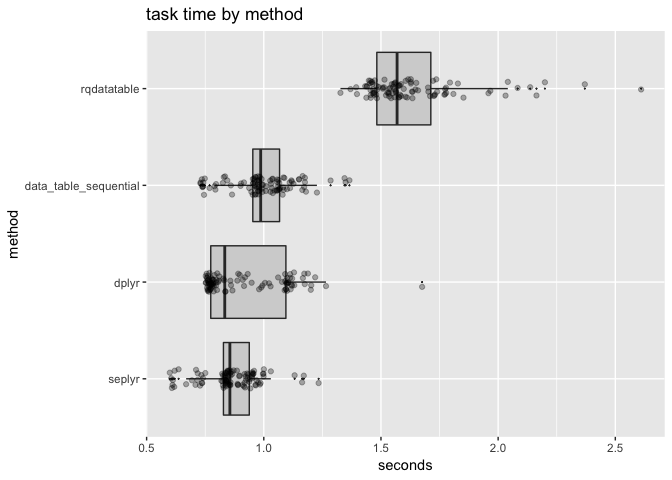
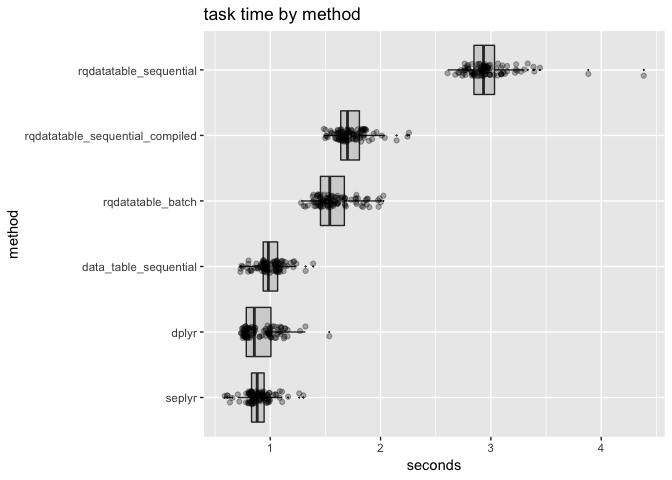
more variations to find out where time is going

diff --git a/extras/CollectExprs_memory.md b/extras/CollectExprs_memory.md
@@ -55,7 +55,7 @@ ncol <- 100
 [`rqdatatable`](https://CRAN.R-project.org/package=rqdatatable)/[`rquery`](https://CRAN.R-project.org/package=rquery) torture function: add 100 columns to a 1000000 row table. This is implemented using [`data.table`](https://CRAN.R-project.org/package=data.table) in a batch mode.
 
 ``` r
-rquery_fn <- function(d, ncol) {
+rquery_fn_batch <- function(d, ncol) {
   expressions <- paste0("x + ", seq_len(ncol))
   names(expressions) <- paste0("x_", seq_len(ncol))
   ops <- local_td(d) %.>%
@@ -64,13 +64,49 @@ rquery_fn <- function(d, ncol) {
   d %.>% ops
 }
 
-rquery_fn(d, 5)
+rquery_fn_batch(d, 5)[]
 ```
 
     ##    x x_1 x_2 x_3 x_4 x_5
     ## 1: 3   4   5   6   7   8
 
 The row-selection step is to cut down on the in-memory cost of bringing the result back to `R`. Obviously we could optimize the example away by pivoting the filter to earlier in the example pipeline. We ask the reader to take this example as a stand-in for a more complicated (though nasty) real-world example where such optimizations are not available.
+
+A sequentinal versin.
+
+``` r
+rquery_fn_seq <- function(d, ncol) {
+  ops <- local_td(d) 
+  for(i in seq_len(ncol)) {
+    ops <- extend_se(ops, paste0("x_", i) %:=% paste0("x + ", i))
+  }
+  ops <- select_rows_nse(ops, x == 3)
+  d %.>% ops
+}
+
+rquery_fn_seq(d, 5)[]
+```
+
+    ##    x x_1 x_2 x_3 x_4 x_5
+    ## 1: 3   4   5   6   7   8
+
+And a pre-compiled `rquery` sequential pipeline.
+
+``` r
+rquery_fn_seq_comp <- function(d, ncol) {
+  ops <- local_td(d) 
+  for(i in seq_len(ncol)) {
+    ops <- extend_se(ops, paste0("x_", i) %:=% paste0("x + ", i))
+  }
+  select_rows_nse(ops, x == 3)
+}
+
+ops <- rquery_fn_seq_comp(d, 5)
+d %.>% ops
+```
+
+    ##    x x_1 x_2 x_3 x_4 x_5
+    ## 1: 3   4   5   6   7   8
 
 Same torture for [`dplyr`](https://CRAN.R-project.org/package=dplyr).
 
@@ -137,8 +173,11 @@ data_table_sequential_fn(tbl, 5)
 Time the functions.
 
 ``` r
+opsc <- rquery_fn_seq_comp(d, ncol)
 timings <- microbenchmark(
-  rqdatatable = rquery_fn(d, ncol),
+  rqdatatable_batch = rquery_fn_batch(d, ncol),
+  rqdatatable_sequential = rquery_fn_seq(d, ncol),
+  rqdatatable_sequential_compiled = { d %.>% opsc },
   dplyr = dplyr_fn(tbl, ncol),
   seplyr = seplyr_fn(tbl, ncol),
   data_table_sequential = data_table_sequential_fn(d, ncol),
@@ -154,16 +193,20 @@ print(timings)
 ```
 
     ## Unit: milliseconds
-    ##                   expr       min        lq      mean    median        uq
-    ##            rqdatatable 1327.1253 1481.9942 1630.8643 1568.7860 1715.9464
-    ##                  dplyr  752.2442  773.6876  919.7230  833.4448 1094.4451
-    ##                 seplyr  598.8906  827.1614  861.3842  855.3084  938.5036
-    ##  data_table_sequential  729.8585  952.9952  995.9484  986.7933 1068.0681
-    ##       max neval
-    ##  2610.145   100
-    ##  1675.631   100
-    ##  1233.909   100
-    ##  1365.402   100
+    ##                             expr       min        lq      mean    median
+    ##                rqdatatable_batch 1279.1656 1455.2240 1581.3552 1539.5738
+    ##           rqdatatable_sequential 2607.6475 2845.1221 2974.1527 2933.4133
+    ##  rqdatatable_sequential_compiled 1486.3553 1638.4192 1727.4547 1700.3718
+    ##                            dplyr  735.6455  782.3580  913.0006  855.8226
+    ##                           seplyr  586.0767  830.4310  892.0809  881.8349
+    ##            data_table_sequential  729.6060  936.2447  997.1129  982.9807
+    ##         uq      max neval
+    ##  1673.0563 2025.577   100
+    ##  3038.4283 4385.594   100
+    ##  1809.7341 2257.403   100
+    ##  1007.5346 1535.456   100
+    ##   946.1194 1300.669   100
+    ##  1068.9589 1389.268   100
 
 ``` r
 #autoplot(timings)
@@ -187,16 +230,20 @@ tratio <- timings %.>%
                    columnToTakeValuesFrom = "mean_seconds", 
                    rowKeyColumns = NULL) %.>%
   extend_nse(.,
-             ratio = dplyr/rqdatatable)
+             ratio = dplyr/rqdatatable_batch)
 
 tratio[]
 ```
 
-    ##    data_table_sequential    dplyr rqdatatable    seplyr     ratio
-    ## 1:             0.9959484 0.919723    1.630864 0.8613842 0.5639482
+    ##    data_table_sequential     dplyr rqdatatable_batch
+    ## 1:             0.9971129 0.9130006          1.581355
+    ##    rqdatatable_sequential rqdatatable_sequential_compiled    seplyr
+    ## 1:               2.974153                        1.727455 0.8920809
+    ##        ratio
+    ## 1: 0.5773532
 
 ``` r
 ratio_str <- sprintf("%.2g", 1/tratio$ratio)
 ```
 
-`rqdatatable` is about 1.8 times slower than `dplyr` (and the other sequential implementations and even batch implementations) for this task at this scale for this data implementation and configuration. Likely this is due to copying and re-parsing overhead from `rqdatatable` itself (unlikely to be a `data.table` issue).
+`rqdatatable` in batch mode is about 1.7 times slower than `dplyr` (and the other sequential implementations and even batch implementations) for this task at this scale for this data implementation and configuration. Likely this is due to copying and re-parsing overhead from `rqdatatable` itself (unlikely to be a `data.table` issue).
